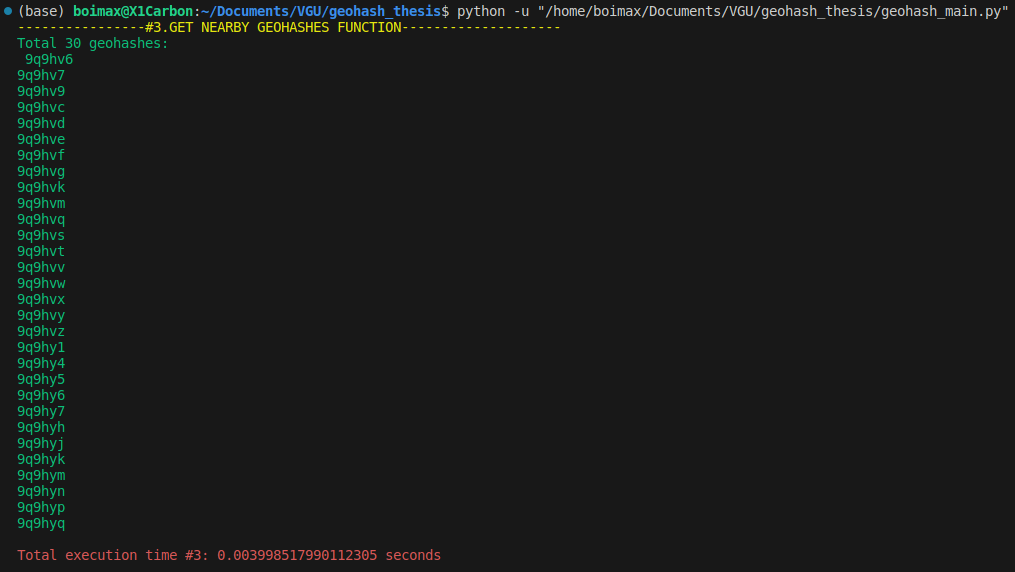
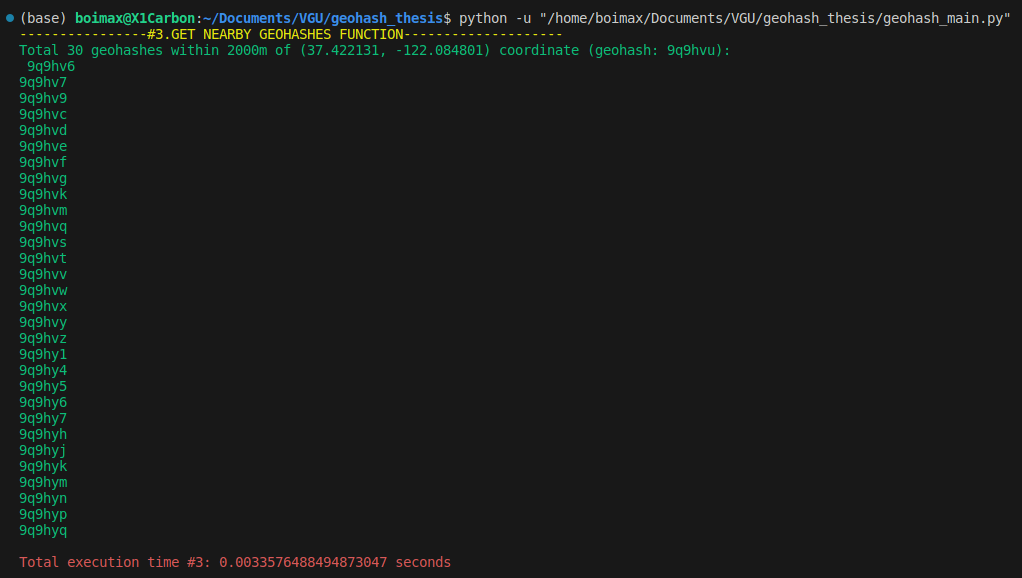
Add input images and update display infos

Changed region(s): [[0.0, 0.0, 1.0, 0.9808]]

diff --git a/geohash_main.py b/geohash_main.py
@@ -321,7 +321,7 @@ def display_nearby_geohashes(lat, lon, radius, precision):
     print_header("#3.GET NEARBY GEOHASHES FUNCTION")
     start_time = time.time()
     geohashes = Main.get_nearby_geohashes(lat, lon, radius, precision)
-    print_colored_message(f'Total {len(geohashes)} geohashes:\n', '\n'.join(geohashes))
+    print_colored_message(f'Total {len(geohashes)} geohashes within {radius}m of ({lat}, {lon}) coordinate (geohash: {Main.encode(lat, lon, 6)}):\n','\n'.join(geohashes))
     elapsed_time = time.time() - start_time
     print_colored_message('\nTotal execution time #3:', f'{elapsed_time} seconds', colored.red)
     puts('\n\n')
@@ -355,21 +355,22 @@ def display_nearby_locations(lat, lon, radius, precision, location_type):
     start_time = time.time()
     locations_data = Main.generate_locations_data(50, lat, lon, precision)
     nearby_locations = Main.get_nearby_locations(lat, lon, radius, precision, locations_data, location_type)
-    print_colored_message(f'{len(nearby_locations)} Targeted Nearby Locations:\n', nearby_locations)
+    print_colored_message(f'Total {len(nearby_locations)} {location_type} within {radius}m of current coordinate ({lat}, {lon}):\n', nearby_locations)
     elapsed_time = time.time() - start_time
     print_colored_message('\nTotal execution time #6:', f'{elapsed_time} seconds', colored.red)
     puts('\n\n')
 
 
 #MAIN 
+
 if __name__ == "__main__":
     lat, lon, precision = 37.422131, -122.084801, 6
 
     display_encode_function(lat, lon, precision)
-    display_decode_function('9q9hy5')
+    display_decode_function('9q9hvu')
     display_nearby_geohashes(lat, lon, 2000, precision)
-    display_geohashes_distance('9q9hvu', lat, lon, 2000, precision)
-    display_locations_data(50, lat, lon, 6)
+    display_geohashes_distance('9q9hvu', lat, lon, 2000, precision) #Auxiliary function
+    display_locations_data(50, lat, lon, 6) #Auxiliary function
     display_nearby_locations(lat, lon, 2000, 6, 'cafe')
 
 

diff --git a/README.md b/README.md
@@ -17,6 +17,7 @@ Encodes a latitude and longitude into a geohash string.
 - **Parameters**: `lat`, `lon`, `precision` (optional)
 - **Returns**: Geohash string
 
+![Encode_input](./images/encode_function_input.png)
 ![Encode](./images/encode_function_result.png)
 
 ### 2. decode
@@ -26,6 +27,7 @@ Decodes a geohash into its approximate central point.
 - **Parameters**: `geohash`
 - **Returns**: Dictionary with latitude and longitude
 
+![Decode_input](./images/decode_function_input.png)
 ![Decode](./images/decode_function_result.png)
 
 ### 3. get_nearby_geohashes
@@ -36,6 +38,7 @@ Calculates geohashes within a specified radius from a point.
 - **Returns**: List of geohashes
 
 ![Nearby Geohashes](./images/nearby_geohashes.png)
+![Get Nearby Geohashes Result Input](./images/get_nearby_geohashes_input.png)
 ![Get Nearby Geohashes Result](./images/get_nearby_geohashes_result.png)
 
 ### 4. geohash_distance
@@ -44,6 +47,7 @@ Computes the distance between two geohashes.
 
 - **Parameters**: `geohash1`, `geohash2`
 
+![Distance Between 2 Geohashes Input](./images/geohashes_distance_input.png)
 ![Distance Between 2 Geohashes](./images/geohashes_distance_result.png)
 
 ### 5. generate_locations_data
@@ -53,6 +57,7 @@ Produces mock location data around a central point.
 - **Parameters**: `size`, `central_lat`, `central_lon`, `precision`
 - **Returns**: List of mock locations
 
+![Generate Fake Locations Data Input](./images/generate_fake_locations_data_input.png)
 ![Generate Fake Locations Data](./images/generate_fake_locations_data_result.png)
 
 ### 6. get_nearby_locations
@@ -62,6 +67,7 @@ Retrieves locations within a specified radius from a point.
 - **Parameters**: `lat`, `lon`, `radius`, `precision`, `locations_data`, `location_type` (optional)
 - **Returns**: List of nearby locations
 
+![Get Nearby Locations Result Input](./images/get_nearby_locations_input.png)
 ![Get Nearby Locations Result](./images/get_nearby_locations_result.png)
 
 ## Dependencies
